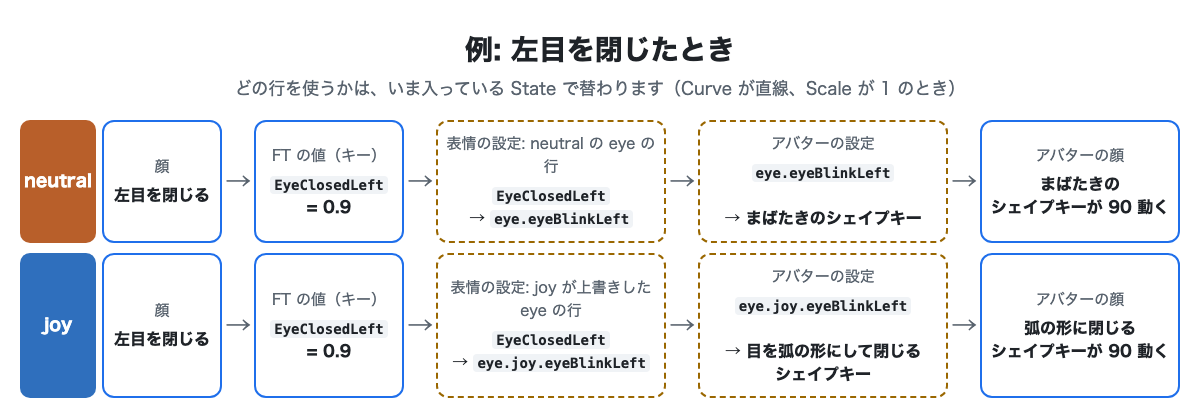
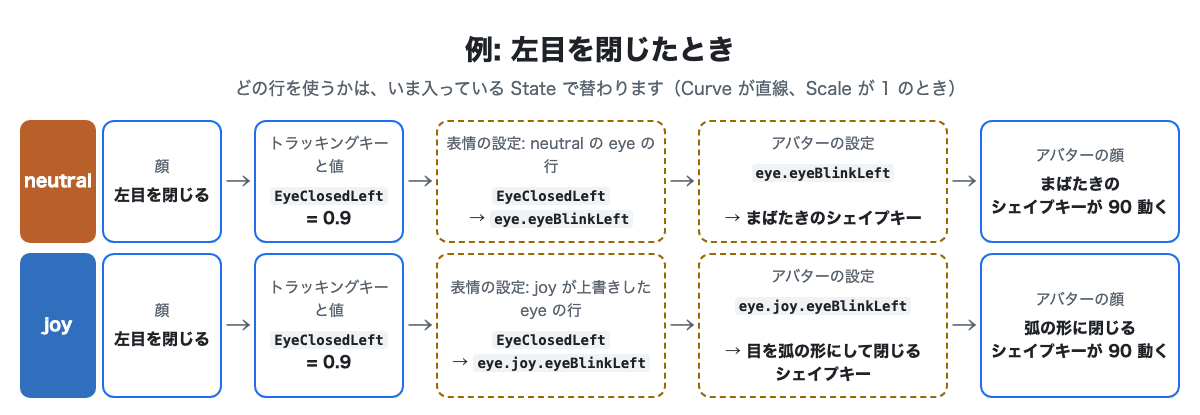
Manual: say トラッキングキー, and retake the State Machine image

Changed region(s): [[0.2158, 0.6651, 0.3392, 0.8964], [0.2158, 0.3181, 0.3392, 0.5494]]

diff --git a/docs/manual-ja/value-flow.html b/docs/manual-ja/value-flow.html
@@ -17,14 +17,14 @@ h2{font-size:28px;text-align:center;margin:28px 0 6px}
 <p class="note">どの行を使うかは、いま入っている State で替わります（Curve が直線、Scale が 1 のとき）</p>
 <div class="lane"><div class="tag n">neutral</div>
  <div class="box"><div class="t">顔</div><div class="v">左目を閉じる</div></div><div class="ar">→</div>
- <div class="box"><div class="t">FT の値（キー）</div><div class="v"><code>EyeClosedLeft</code><br>= 0.9</div></div><div class="ar">→</div>
+ <div class="box"><div class="t">トラッキングキーと値</div><div class="v"><code>EyeClosedLeft</code><br>= 0.9</div></div><div class="ar">→</div>
  <div class="box file"><div class="t">表情の設定: neutral の eye の行</div><div class="v"><code>EyeClosedLeft</code><br>→ <code>eye.eyeBlinkLeft</code></div></div><div class="ar">→</div>
  <div class="box file"><div class="t">アバターの設定</div><div class="v"><code>eye.eyeBlinkLeft</code><br><br>→ まばたきのシェイプキー</div></div><div class="ar">→</div>
  <div class="box"><div class="t">アバターの顔</div><div class="v">まばたきの<br>シェイプキーが 90 動く</div></div>
 </div>
 <div class="lane"><div class="tag j">joy</div>
  <div class="box"><div class="t">顔</div><div class="v">左目を閉じる</div></div><div class="ar">→</div>
- <div class="box"><div class="t">FT の値（キー）</div><div class="v"><code>EyeClosedLeft</code><br>= 0.9</div></div><div class="ar">→</div>
+ <div class="box"><div class="t">トラッキングキーと値</div><div class="v"><code>EyeClosedLeft</code><br>= 0.9</div></div><div class="ar">→</div>
  <div class="box file"><div class="t">表情の設定: joy が上書きした eye の行</div><div class="v"><code>EyeClosedLeft</code><br>→ <code>eye.joy.eyeBlinkLeft</code></div></div><div class="ar">→</div>
  <div class="box file"><div class="t">アバターの設定</div><div class="v"><code>eye.joy.eyeBlinkLeft</code><br><br>→ 目を弧の形にして閉じる<br>シェイプキー</div></div><div class="ar">→</div>
  <div class="box"><div class="t">アバターの顔</div><div class="v">弧の形に閉じる<br>シェイプキーが 90 動く</div></div>
